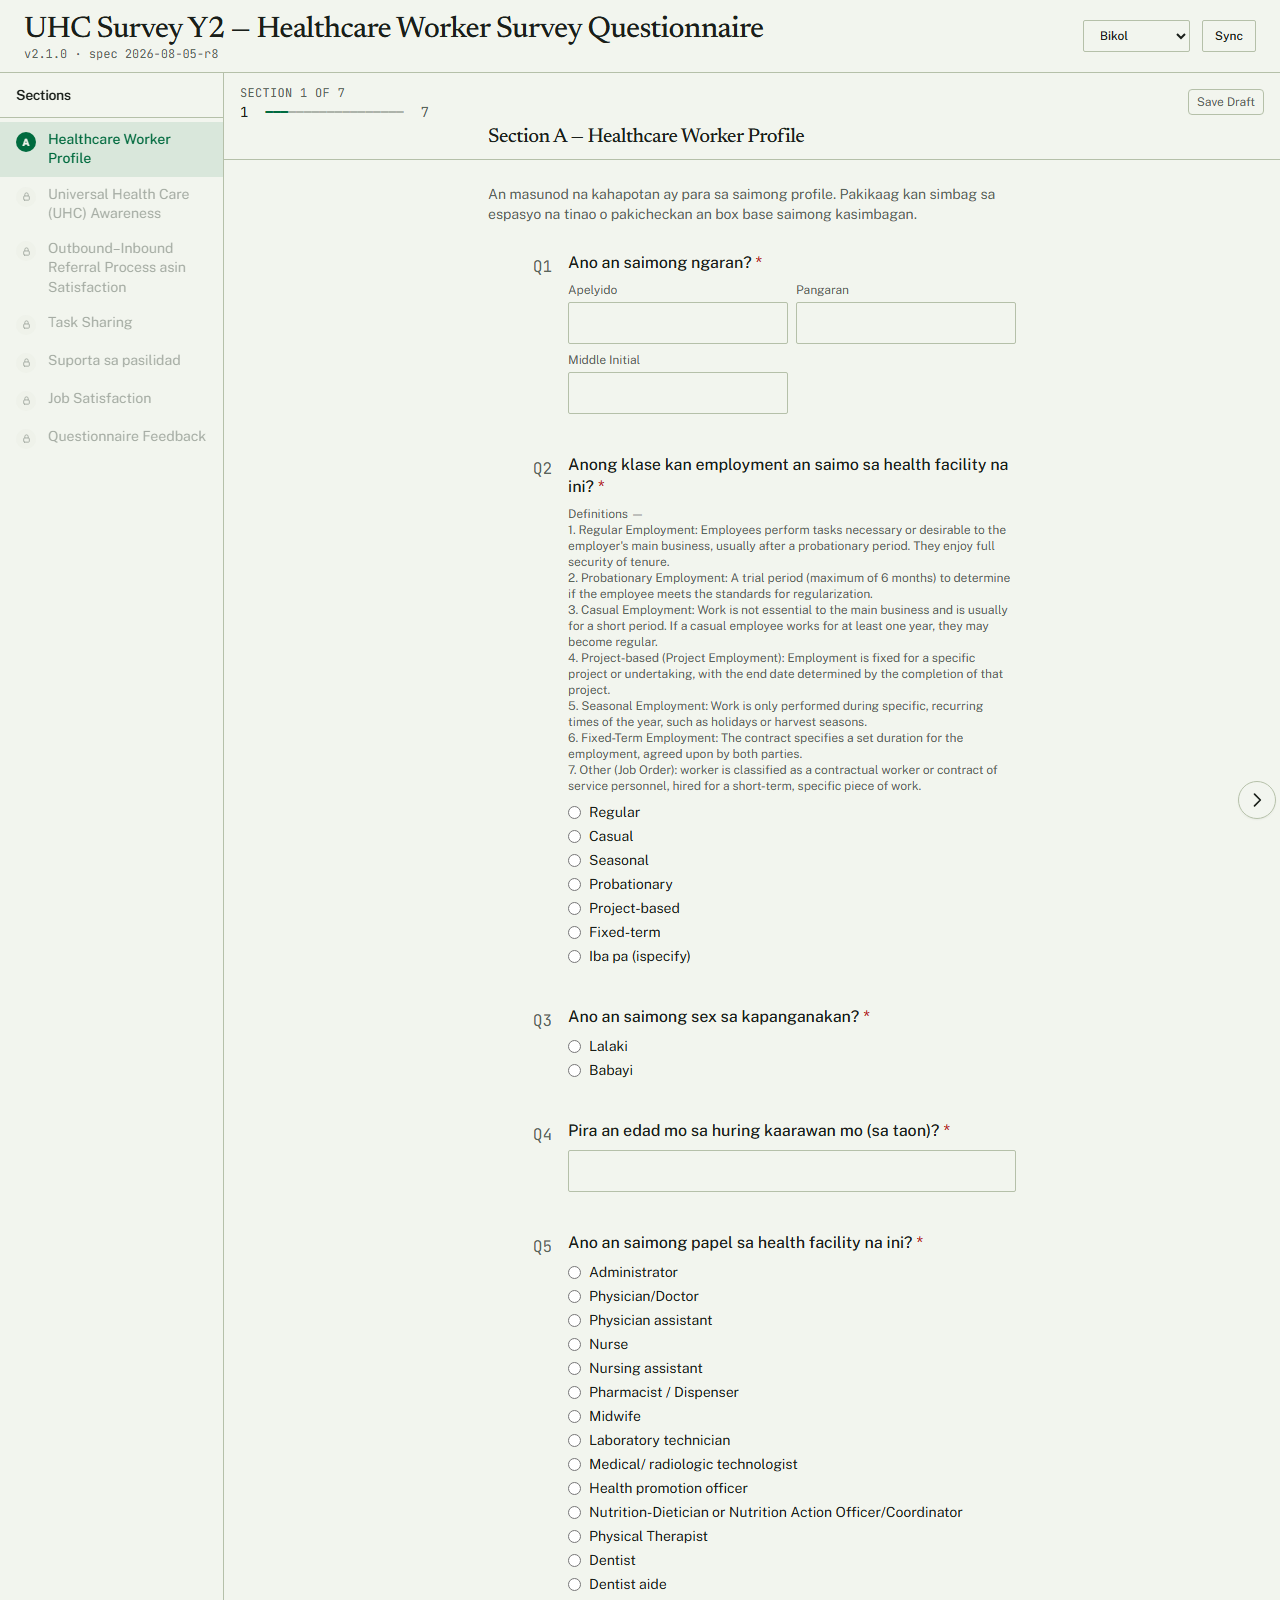
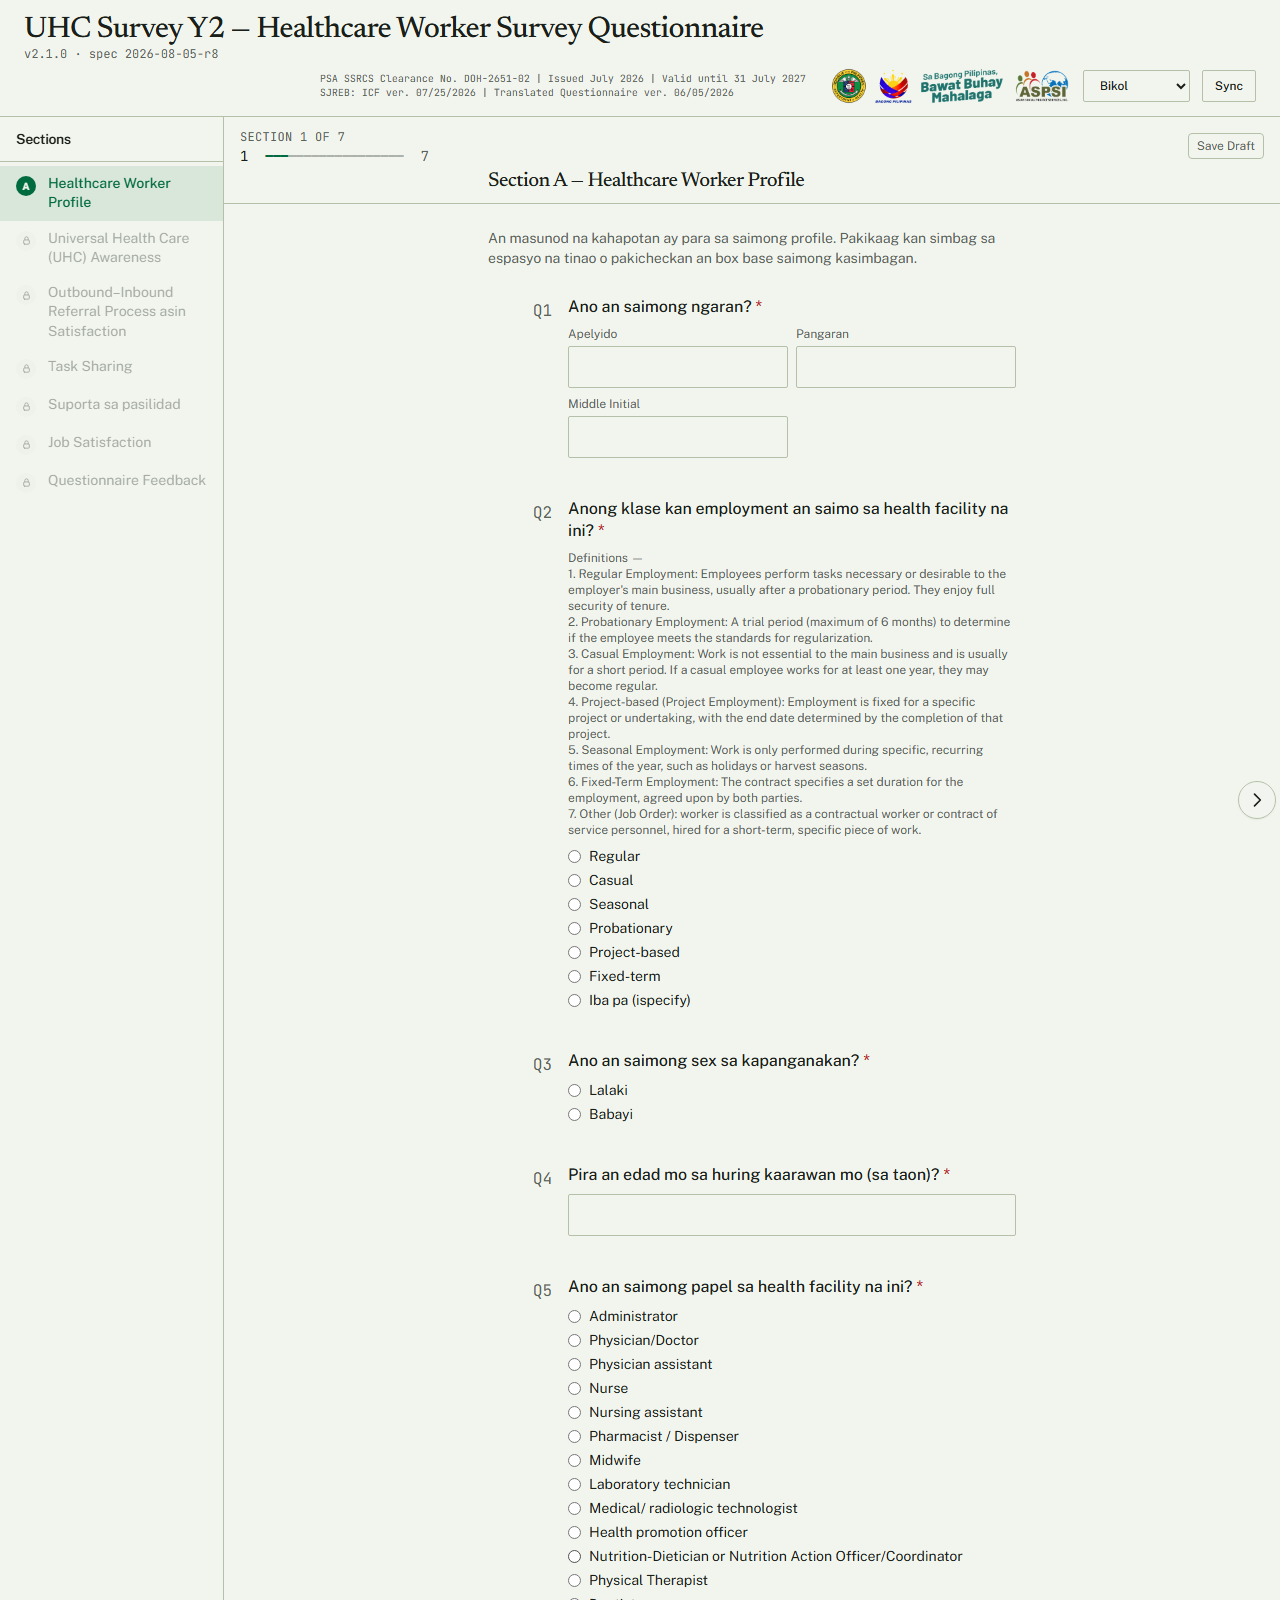
auto: scrum/deliverables session end 2026-08-18T01:18:09Z

diff --git a/deliverables/F2/PWA/app/src/App.tsx b/deliverables/F2/PWA/app/src/App.tsx
@@ -18,6 +18,7 @@ import { PendingCount } from '@/components/sync/PendingCount';
 import { DeliveryStatus } from '@/components/sync/DeliveryStatus';
 import { LanguageSwitcher } from '@/components/i18n/LanguageSwitcher';
 import { BroadcastBanner } from '@/components/chrome/BroadcastBanner';
+import { ClearanceBlock, GovLogos } from '@/components/chrome/GovBrand';
 import { KillSwitchOverlay } from '@/components/chrome/KillSwitchOverlay';
 import { SpecDriftOverlay } from '@/components/chrome/SpecDriftOverlay';
 import { LocaleProvider, useLocale } from '@/i18n/locale-context';
@@ -400,14 +401,19 @@ function AppShell() {
   return (
     <main className="mx-auto flex min-h-screen-dvh w-full max-w-screen-xl flex-col">
       <BroadcastBanner message={runtimeConfig.broadcast_message} />
-      <header className="flex items-center justify-between border-b px-6 py-3">
+      <header className="flex flex-wrap items-center justify-between gap-x-6 gap-y-2 border-b px-6 py-3">
         <div className="flex flex-col">
           <h1 className="font-serif text-3xl font-medium tracking-tight">{t('chrome.appTitle')}</h1>
           <span className="font-mono text-xs leading-none text-muted-foreground">
             v{APP_VERSION} · spec {LOCAL_SPEC_VERSION}
           </span>
         </div>
+        {/* RA-approved masthead (2026-08-17): clearance block sits left of the
+            logo strip on wide screens; on narrow screens it wraps to its own
+            full-width row so the regulatory text stays visible on phones. */}
+        <ClearanceBlock className="order-last basis-full md:order-none md:ml-auto md:basis-auto" />
         <div className="flex items-center gap-3">
+          <GovLogos />
           <LanguageSwitcher />
           <PendingCount />
           {authStatus === 'enrolled' ? (

diff --git a/deliverables/F2/PWA/app/src/components/chrome/GovBrand.tsx b/deliverables/F2/PWA/app/src/components/chrome/GovBrand.tsx
@@ -1,0 +1,46 @@
+import govLogos from '@/assets/brand/gov-logos.png';
+import aspsiLogo from '@/assets/brand/aspsi.png';
+
+// Government/agency masthead branding + PSA SSRCS clearance block, per the
+// RA-approved header reference (2026-08-17). This is REGULATORY METADATA —
+// rendered identically in every locale, exactly like the CSPro instruments'
+// cover footers — so none of it goes through i18n.
+//
+// Clearance suffix -02: the PSA table numbers the cleared questionnaires
+// -01 Facility Head, -03 In/Out-Patient, -04 Household
+// (deliverables/CSPro/icf_content.py); -02 is the Healthcare Worker slot.
+// Inferred from that documented series, not sighted on a certificate —
+// flagged for ASPSI veto in the rollout note.
+export const CLEARANCE_LINES = [
+  'PSA SSRCS Clearance No. DOH-2651-02 | Issued July 2026 | Valid until 31 July 2027',
+  'SJREB: ICF ver. 07/25/2026 | Translated Questionnaire ver. 06/05/2026',
+] as const;
+
+export function ClearanceBlock({ className = '' }: { className?: string }) {
+  return (
+    <div
+      className={`flex flex-col gap-0.5 font-mono text-[10px] leading-tight text-muted-foreground ${className}`}
+    >
+      {CLEARANCE_LINES.map((line) => (
+        <span key={line}>{line}</span>
+      ))}
+    </div>
+  );
+}
+
+export function GovLogos({ className = '' }: { className?: string }) {
+  return (
+    <div className={`flex items-center gap-2 ${className}`}>
+      <img
+        src={govLogos}
+        alt="Department of Health · Bagong Pilipinas — Sa Bagong Pilipinas, Bawat Buhay Mahalaga"
+        className="h-7 w-auto sm:h-9"
+      />
+      <img
+        src={aspsiLogo}
+        alt="Asian Social Project Services, Inc."
+        className="h-7 w-auto sm:h-9"
+      />
+    </div>
+  );
+}

diff --git a/deliverables/F2/PWA/app/e2e/header-shot.spec.ts b/deliverables/F2/PWA/app/e2e/header-shot.spec.ts
@@ -1,0 +1,20 @@
+import { test } from '@playwright/test';
+import { installMockBackend, defaultState } from './fixtures/mock-backend';
+import * as fs from 'fs';
+
+// One-shot masthead evidence: the gov logo strip + PSA/SJREB clearance block
+// (RA-approved layout, 2026-08-17) clipped from the top of the page.
+test.use({ viewport: { width: 1280, height: 800 } });
+
+test('capture the masthead', async ({ page }) => {
+  await installMockBackend(page, defaultState());
+  await page.goto('/');
+  await page.waitForLoadState('networkidle');
+  await page.waitForTimeout(800);
+  await page.evaluate(() => window.scrollTo(0, 0));
+  fs.mkdirSync('locale-shots', { recursive: true });
+  await page.screenshot({
+    path: 'locale-shots/f2_masthead.png',
+    clip: { x: 0, y: 0, width: 1280, height: 240 },
+  });
+});

diff --git a/deliverables/F2/PWA/app/DESIGN.md b/deliverables/F2/PWA/app/DESIGN.md
@@ -308,6 +308,7 @@ If you're about to commit a UI change, verify:
 | 2026-06-03 | Verde Manual palette LOCKED against confirmed DOH anchors (#163) | Resolved E3-F2-PWA-DESIGN-005 without the (image-only, unextractable) AO 2020-0011 scan. Confirmed the official DOH palette from the DOH logo vector: emerald `#00A651`, yellow `#FFF200`, cherry `#ED1C24`. **No token values changed** — each Verde Manual token is a deliberate accessibility-adjusted derivation (raw `#00A651` fails AA for white-on-signal CTAs at ≈2.8:1; raw `#ED1C24` fails AA as error text on paper at ≈3.8:1), so swapping in the raw primaries would regress a UAT'd, WCAG-AAA/AA production palette. Removed the "refine when official PDF available" caveat; palette is final. |
 | 2026-06-17 | Dark-mode CTA text + light `--warning` raised to WCAG AA (E6-PWA-009) | The new token-level contrast gate (`scripts/check-contrast.mjs`) found the #163 AA derivation was validated **light-mode only**. Three pairs were still sub-AA: dark `--primary` / `--destructive` button text (2.99 / 3.13:1) and light ochre `--warning` used **as text** (lock strip, broadcast banner, badges) on paper (2.70:1). Fix, staying inside the DOH hue families: flipped the two dark `*-foreground` button tokens to the graphite ground `132 14.3% 6.9%` (dark text on emerald/cherry CTAs → 4.74 / 4.53:1) and darkened light `--warning` from `47.8%`→`34%` L (`#C68A2E`→`#8D6221`, 4.89:1 on paper). Tradeoff accepted: dark-mode CTAs now carry dark text (inverse of light mode's light-on-dark) and the warning ochre reads as a darker amber — both justified because warning is used predominantly as text. No other token changed; the 4 gate exceptions were removed and the gate now enforces 4.5:1 AA across all 20 pairs. |
 | 2026-06-20 | `<LanguageSwitcher>` changed from an 8-button pill row to a native `<select>` dropdown | Consistency with the CSPro/CSEntry instruments (F1/F3/F4), which present language choice as a dropdown menu, plus chrome-bar economy: the pill row grew from 2 → 8 languages (English + the 7 PSA-target PH languages), crowding the header. A native `<select>` is compact, fully keyboard-accessible and self-announces the chosen option to screen readers (so the now-redundant `aria-live` mirror and per-button `aria-pressed` semantics were dropped), lists each locale by native name, and reuses the `--input` / `rounded-md` / `h-8` tokens of the adjacent `sm` outline buttons so it reads as part of the same chrome. No palette or token values changed. |
+| 2026-08-17 | Government logo strip + PSA/SJREB clearance block added to the masthead (Carl, per the RAs' reference layout) | Deliberate, approved bend of the "not a government form" anchor: F2 was the only instrument in the suite showing neither the DOH/Bagong Pilipinas/ASPSI logo strip nor its PSA SSRCS clearance stamp — the CSPro instruments carry both on their cover/ICF screens, and the presentation expectation applies to the cleared instrument set as a whole. Implementation: `components/chrome/GovBrand.tsx` — the CAPI cover's composed logo strip (`gov-logos.png`) + ASPSI mark at `h-7`/`h-9`, and a two-line `font-mono text-[10px] muted` clearance block (regulatory metadata, identical in all locales, NOT i18n'd). Header switched to `flex-wrap`; on `<md` the clearance wraps to its own full-width row so the stamp stays visible on phones. Clearance suffix `-02` inferred from the PSA series documented in `deliverables/CSPro/icf_content.py` (−01 Facility Head, −03 Patient, −04 Household); flagged for ASPSI veto. No palette or token values changed. |
 
 ---
 
